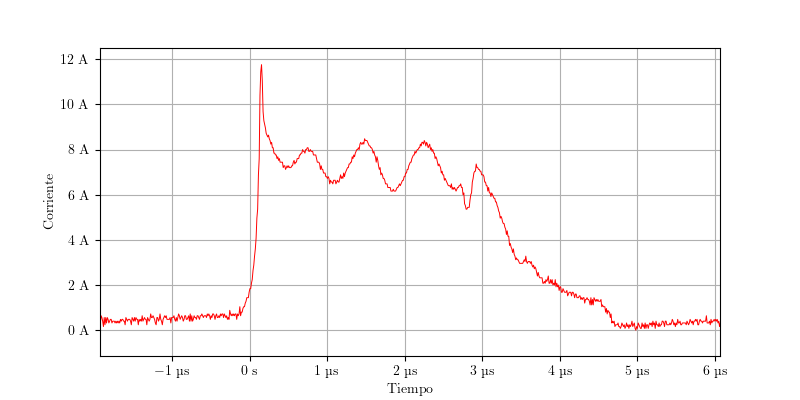
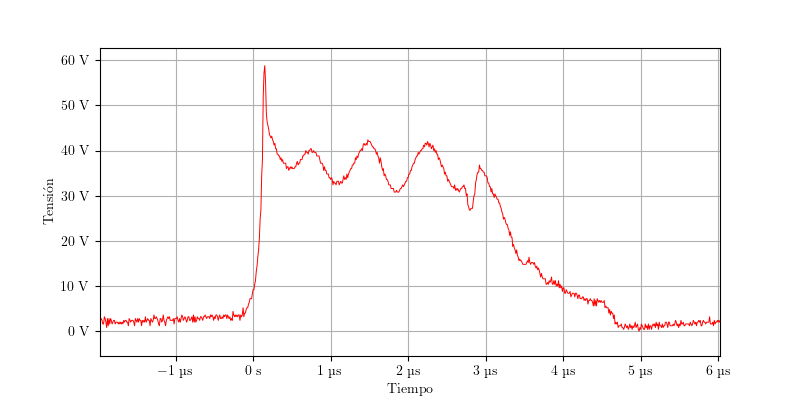
IT'S REALLY DONE

diff --git a/sections/simulaciones_prototipo.tex b/sections/simulaciones_prototipo.tex
@@ -164,22 +164,13 @@ En la figura \ref{fig:sim:osc_pwm_vout} se muestra la misma forma de onda simula
     \label{fig:sim:osc_pwm_vout}
 \end{figure}
 
-En las figuras \ref{fig:ct_v} y \ref{fig:dtc_v} se muestran las tensiones en el capacitor $C_t$ y el terminal DTC del TL494 respectivamente.
+En la figura \ref{fig:ct_v} se muestran la tensión en el capacitor $C_t$.
 
 \begin{figure}[H]
     \centering
     \includegraphics[width=\textwidth]{images/capturas-osciloscopio/17-11-2022/5.png}
     \caption{Tensión en el capacitor $C_t$} %COMPLETAR
     \label{fig:ct_v}
-\end{figure}
-
-% La forma de onda de Ct es la esperada, pero la de DTC?
-
-\begin{figure}[H]
-    \centering
-    \includegraphics[width=\textwidth]{images/capturas-osciloscopio/TL494/DTC_v.png}
-    \caption{Tensión a la salida del pin DTC del TL494} %COMPLETAR
-    \label{fig:dtc_v}
 \end{figure}
 
 Se observa una disminución en la frecuencia de la forma de onda a aproximadamente $f=112kHz$. 
@@ -437,7 +428,7 @@ Para comparar, se muestra en las figuras \ref{fig:vds_simulation_high} y \ref{fi
 \begin{figure}[H]
     \centering
     \includegraphics[width=\textwidth]{images/sim/18.pdf}
-    \caption{Tensión $V_{DS}$ en el MOSFET de lado bajo side simulado en LTspice}
+    \caption{Tensión $V_{DS}$ en el MOSFET de lado bajo simulado en LTspice}
     \label{fig:vds_simulation_low}
 \end{figure}
 
@@ -548,7 +539,7 @@ Se ajustaron las vueltas del secundario para escalar a la tensión deseada.
 \begin{figure}[H]
     \centering
     \includegraphics[width=0.8\textwidth]{images/capturas-osciloscopio/17-11-2022/56.png}
-    \caption{Tensión en el secundario del transformador de potencia después de ajustar la relación de vueltas del transformador a 2:1}
+    \caption{Tensión en el secundario del transformador de potencia luego de ajustar la relación de vueltas del transformador a 2:1}
     \label{fig:osc:41}
 \end{figure}
 

diff --git a/sections/marco_teorico.tex b/sections/marco_teorico.tex
@@ -407,7 +407,7 @@ se encuentran apagados, lo cual permite utilizar transistores de menores prestac
 \begin{figure}[H]
     \centering
     \includegraphics[width=0.8\textwidth]{images/hart/forward_doble_switch_closed.png}
-    \caption{}
+    \caption{Convertidor forward doble switch cuando los interruptores están cerrados}
     \label{fig:forward_doble_switch_closed}
 \end{figure}
 
@@ -420,7 +420,7 @@ Además la corriente que circula por la inductancia magnetizante se incrementa c
 \begin{figure}[H]
     \centering
     \includegraphics[width=0.8\textwidth]{images/hart/forward_doble_switch_open.png}
-    \caption{}
+    \caption{Convertidor forward doble switch cuando los interruptores están abiertos}
     \label{fig:forward_doble_switch_open}
 \end{figure}
 

diff --git a/sections/diseño.tex b/sections/diseño.tex
@@ -344,7 +344,7 @@ $$ L=R\times\tau=468\mu H $$
 \begin{figure}[ht]
     \centering
     \includegraphics[width=0.8\textwidth]{images/osc-inductor-ts.jpeg}
-    \caption{Medición de la inductancia mediante tiempo de subida}
+    \caption{Medición de la inductancia mediante el tiempo de subida}
     \label{fig:osc-inductor-ts}
 \end{figure}
 
@@ -382,7 +382,7 @@ $$ Q_g=26nC $$
 \begin{figure}[ht]
     \centering
     \includegraphics[width=0.8\textwidth]{images/irf840/vgs-vs-qg.png}
-    \caption{Curva típica de tensión entre \textit{gate} y \textit{source} vs. carga del terminal gate}
+    \caption{Curva de tensión entre \textit{gate} y \textit{source} vs. carga del terminal \textit{gate} del IRF840}
     \label{fig:vgs-vs-qg}
 \end{figure}
 

diff --git a/scripts/csv_to_image.py b/scripts/csv_to_image.py
@@ -31,9 +31,9 @@ plt.rc('text', usetex=True)
 plt.rc('font', family='serif')
 fig,ax = plt.subplots(nrows=1, ncols=1, figsize=(8, 4))
 ax.xaxis.set_major_formatter(EngFormatter(unit='s'))
-ax.yaxis.set_major_formatter(EngFormatter(unit='A'))
+ax.yaxis.set_major_formatter(EngFormatter(unit='V'))
 ax.set_xlabel('Tiempo')
-ax.set_ylabel('Corriente')
+ax.set_ylabel('Tensión')
 #enable grid
 ax.grid(True)
 #ax.set_title(sys.argv[3])
@@ -41,7 +41,7 @@ ax.grid(True)
 if len(sys.argv) == 4:
     ax.set_xlim(float(sys.argv[2])-260e-9, float(sys.argv[3])-260e-9)
 # Divide y values by 10.8
-y = [i /10000 for i in y]
+#y = [i /10000 for i in y]
 # Inverti y values
 #y = [-i for i in y]
 ax.plot(x,y,color='red', linewidth=0.7)

diff --git a/sections/PCB.tex b/sections/PCB.tex
@@ -8,7 +8,7 @@ Se imprimió una primera versión y se realizaron correcciones en base a los res
 \begin{figure}[H]
     \centering
     \includegraphics[width=0.8\textwidth]{images/pcb-implementada.jpeg}
-    \caption{Placa impresa antes de soldar.}
+    \caption{Placa impresa previo a la soldadura.}
     \label{fig:pcb-implementada}
 \end{figure}
 
